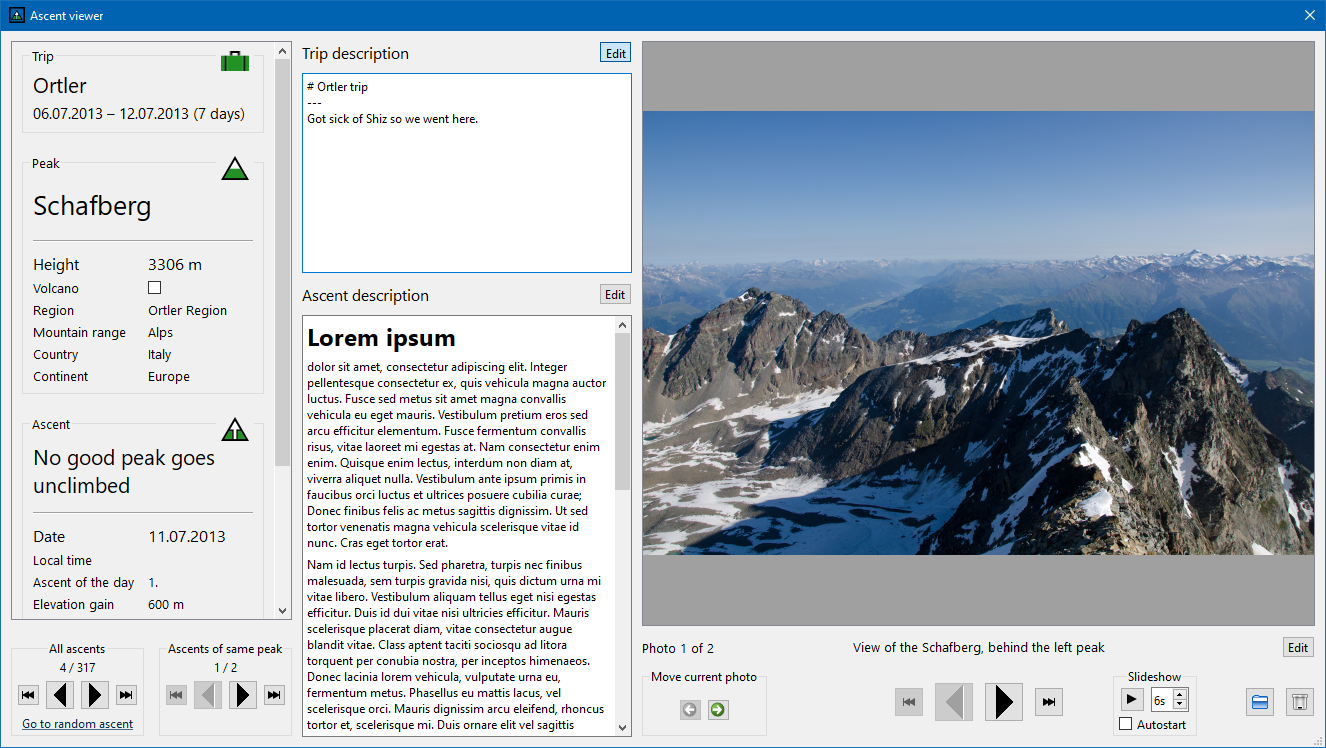
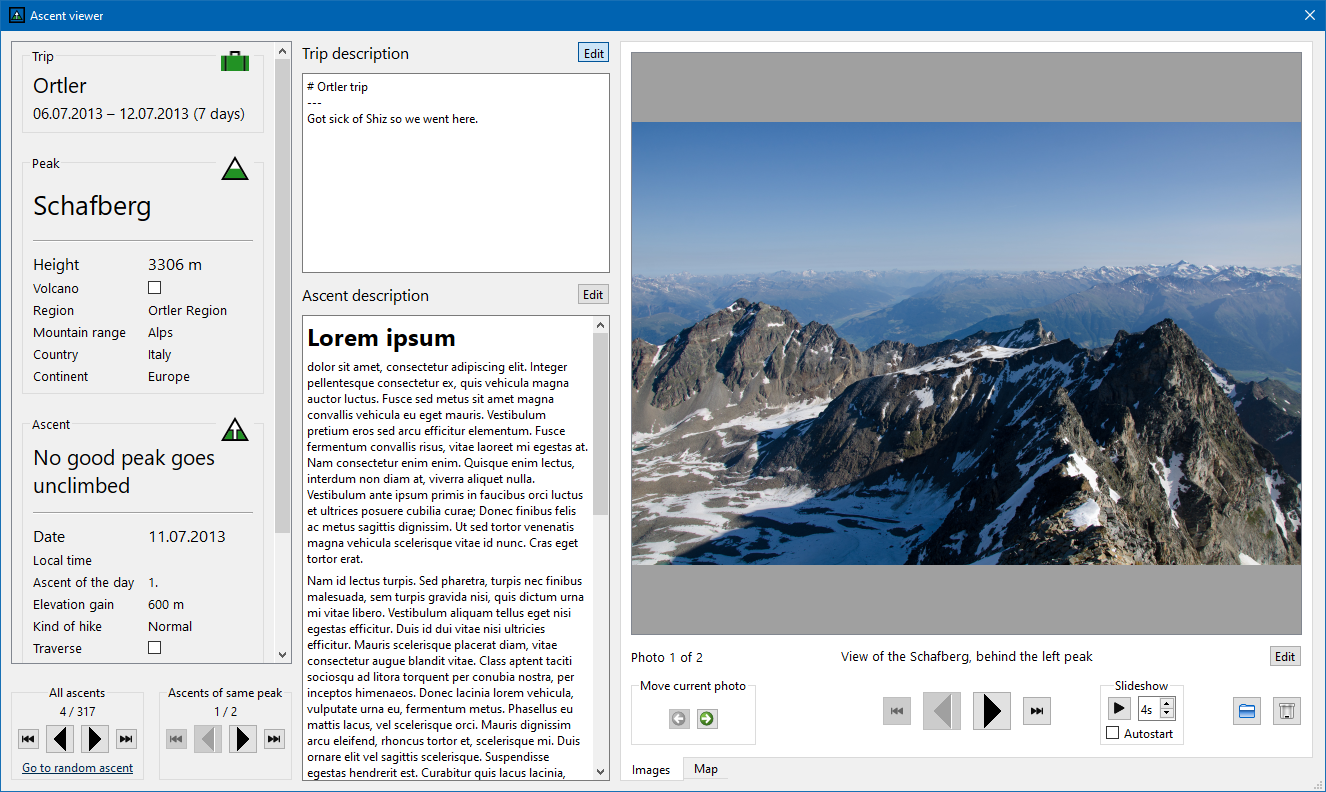
Release v1.9.0

Changed region(s): [[0.0, 0.0307, 1.0, 1.0], [0.0, 0.0, 0.371, 0.246]]

diff --git a/README.md b/README.md
@@ -8,7 +8,7 @@ PAL offers logging of peak ascents during hikes.
 It is focused on individual peaks as opposed to whole hikes.
 
 PAL consists of a main window, where stored information is shown in tables (for ascents, peaks and so on).
-Additionally, there is an ascent viewing window to browse logged ascents one by one, showing details about each one as well as a description and photos.
+Additionally, there is an ascent viewing window to browse logged ascents one by one, showing details about each one as well as a description, photos and a map.
 
 A variety of interesting statistics is automatically generated from the user's data and displayed as extra columns or charts.
 
@@ -42,6 +42,7 @@ For each peak ascent, the following data can be logged:
 - Participants
 - Description/notes (with support for Markdown and HTML)
 - Photos with descriptions
+- GPX track file
 
 Each peak itself has the following associated fields:
 
@@ -76,9 +77,11 @@ PAL employs an [SQLite](https://www.sqlite.org) database, so its project files c
 [![Build](https://github.com/svetter/pal/actions/workflows/build.yml/badge.svg)](https://github.com/svetter/pal/actions/workflows/build.yml)
 [![Test](https://github.com/svetter/pal/actions/workflows/test.yml/badge.svg)](https://github.com/svetter/pal/actions/workflows/test.yml)
 
-PAL is currently built on [Qt 6.9.1](https://wiki.qt.io/Qt_6.9_Release).
+PAL is currently built on [Qt 6.9.2](https://wiki.qt.io/Qt_6.9_Release) with the MSVC toolchain.
 
 If there is no [release](https://github.com/svetter/pal/releases) suitable for you or you want to make changes in the code, the easiest way to build PAL yourself is to install Qt6 along with Qt Creator, open the top-level project file [PAL.pro](PAL.pro), let Qt Creator configure the project and click build.
+In the Qt Maintenance tool, you need to select the following modules: Qt Charts, Qt HTTP Server, Qt Positioning, Qt WebChannel, Qt WebSockets, Qt WebView.
+Also, under Extensions, select Qt WebEngine for the Qt version you are installing.
 
 
 
